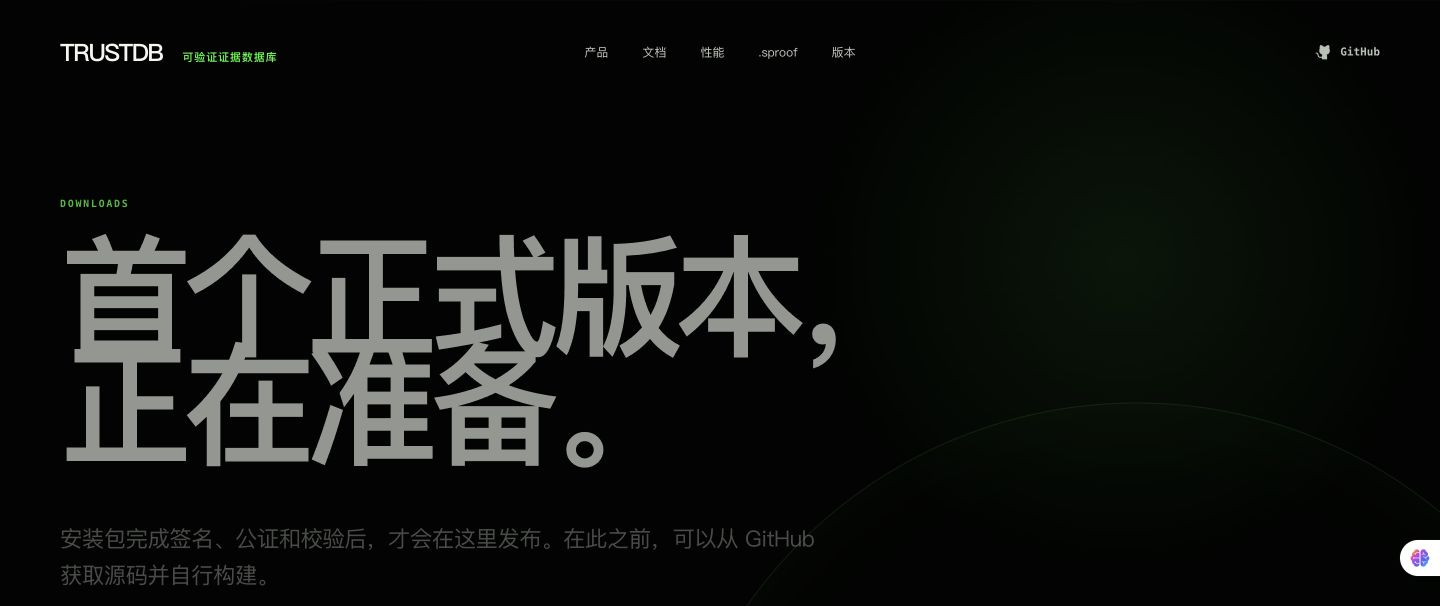
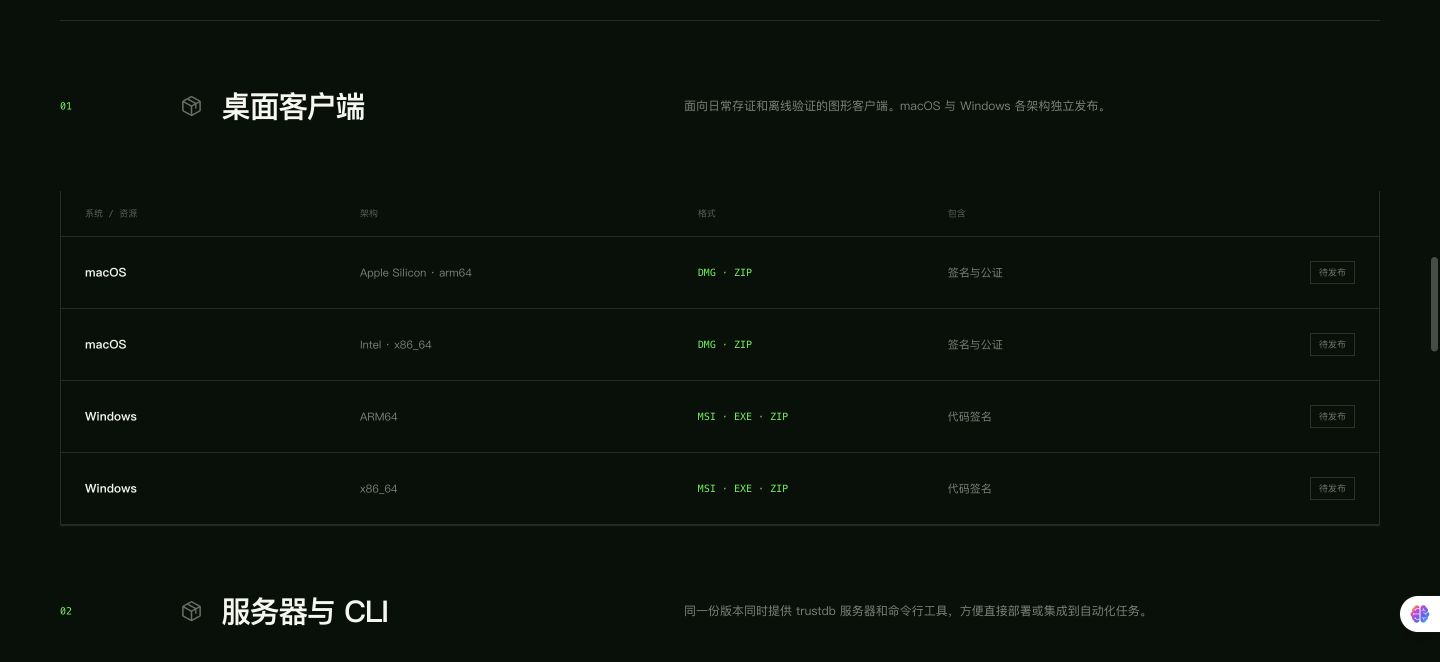
feat(website): expand planned release assets

diff --git a/website/src/pages/ReleasePages.jsx b/website/src/pages/ReleasePages.jsx
@@ -26,11 +26,41 @@ export function ChangelogPage() {
   );
 }
 
-const plannedAssets = [
-  ["macOS", "Apple Silicon / Universal", "DMG · ZIP", "签名与 notarization 待首个 Release"],
-  ["Windows", "x86_64", "MSI / EXE", "签名安装包尚未发布"],
-  ["Linux", "x86_64 / arm64", "AppImage / archive", "桌面包与 CLI archive 尚未发布"],
-  ["CLI & checksums", "multi-platform", "tar.gz · SHA-256", "版本化二进制与校验清单尚未发布"],
+const releaseGroups = [
+  {
+    index: "01",
+    title: "桌面客户端",
+    description: "面向日常存证和离线验证的图形客户端。macOS 与 Windows 各架构独立发布。",
+    assets: [
+      ["macOS", "Apple Silicon · arm64", "DMG · ZIP", "签名与公证"],
+      ["macOS", "Intel · x86_64", "DMG · ZIP", "签名与公证"],
+      ["Windows", "ARM64", "MSI · EXE · ZIP", "代码签名"],
+      ["Windows", "x86-64 · amd64", "MSI · EXE · ZIP", "代码签名"],
+    ],
+  },
+  {
+    index: "02",
+    title: "服务器与 CLI",
+    description: "同一份版本同时提供 trustdb 服务器和命令行工具，方便直接部署或集成到自动化任务。",
+    assets: [
+      ["Linux", "amd64", "tar.gz", "Server · CLI"],
+      ["Linux", "arm64", "tar.gz", "Server · CLI"],
+      ["macOS", "Apple Silicon · arm64", "tar.gz", "Server · CLI"],
+      ["macOS", "Intel · x86_64", "tar.gz", "Server · CLI"],
+      ["Windows", "ARM64", "ZIP", "Server · CLI"],
+      ["Windows", "x86-64 · amd64", "ZIP", "Server · CLI"],
+    ],
+  },
+  {
+    index: "03",
+    title: "容器与发布资料",
+    description: "镜像、部署示例和校验资料随正式版本一起发布。",
+    assets: [
+      ["Docker / OCI", "linux/amd64 · linux/arm64", "GHCR image", "版本标签 · latest"],
+      ["Docker Compose", "multi-arch", "compose.yaml", "服务 · 数据卷 · 健康检查"],
+      ["校验与溯源", "全部平台", "SHA-256 · SBOM", "签名 · 构建来源"],
+    ],
+  },
 ];
 
 export function DownloadsPage() {
@@ -46,8 +76,18 @@ export function DownloadsPage() {
       </section>
       <section className="asset-plan">
         <div className="section-shell">
-          <div className="asset-plan__heading" data-reveal><p>Planned release assets</p><h2>发布后，这里会有什么。</h2></div>
-          <div className="asset-grid">{plannedAssets.map(([platform, arch, format, status]) => <article key={platform} data-reveal><Package /><span>PLANNED</span><h3>{platform}</h3><strong>{arch}</strong><code>{format}</code><p>{status}</p></article>)}</div>
+          <div className="asset-plan__heading" data-reveal><p>Planned release assets</p><h2>客户端、服务端，<br />以及完整发布资料。</h2></div>
+          <div className="release-groups">
+            {releaseGroups.map((group) => (
+              <section className="release-group" key={group.title} data-reveal>
+                <header><span>{group.index}</span><div><Package /><h3>{group.title}</h3></div><p>{group.description}</p></header>
+                <div className="asset-matrix">
+                  <div className="asset-matrix__head"><span>系统 / 资源</span><span>架构</span><span>格式</span><span>包含</span></div>
+                  {group.assets.map(([platform, arch, format, included]) => <div className="asset-matrix__row" key={`${platform}-${arch}`}><strong>{platform}</strong><span>{arch}</span><code>{format}</code><p>{included}</p><b>待发布</b></div>)}
+                </div>
+              </section>
+            ))}
+          </div>
         </div>
       </section>
       <section className="source-build section-shell">

diff --git a/website/src/styles.css b/website/src/styles.css
@@ -402,6 +402,23 @@ button { font: inherit; }
 .asset-plan { padding: 140px 0; background: #071008; }
 .asset-plan__heading { display: grid; grid-template-columns: 1fr 2fr; }
 .asset-plan__heading h2 { margin: 0; font-size: clamp(54px, 5.8vw, 84px); line-height: .94; letter-spacing: -.06em; }
+.release-groups { margin-top: 100px; }
+.release-group { border-top: 1px solid var(--line); }
+.release-group > header { min-height: 170px; display: grid; grid-template-columns: 80px .8fr 1.2fr; align-items: center; gap: 40px; }
+.release-group > header > span { color: var(--acid); font: 10px/1 monospace; }
+.release-group > header > div { display: flex; align-items: center; gap: 18px; }
+.release-group > header svg { width: 23px; height: 23px; color: #657064; }
+.release-group > header h3 { margin: 0; font-size: 30px; letter-spacing: -.045em; }
+.release-group > header p { max-width: 560px; margin: 0; color: #7a8478; font-size: 12px; line-height: 1.8; }
+.asset-matrix { border-left: 1px solid var(--line); }
+.asset-matrix__head, .asset-matrix__row { display: grid; grid-template-columns: 1fr 1.25fr .9fr 1.2fr 82px; align-items: center; gap: 24px; padding: 0 24px; border-right: 1px solid var(--line); border-bottom: 1px solid var(--line); }
+.asset-matrix__head { min-height: 46px; color: #586257; font: 9px/1 monospace; text-transform: uppercase; }
+.asset-matrix__row { min-height: 72px; }
+.asset-matrix__row strong { font-size: 12px; }
+.asset-matrix__row > span, .asset-matrix__row p { color: #798378; font-size: 11px; }
+.asset-matrix__row code { color: var(--acid); font: 10px/1.4 monospace; }
+.asset-matrix__row p { margin: 0; }
+.asset-matrix__row b { justify-self: end; padding: 6px 8px; border: 1px solid rgba(126, 143, 122, .28); color: #6d786b; font: 9px/1 monospace; }
 .asset-grid { display: grid; grid-template-columns: repeat(4, 1fr); margin-top: 100px; border-top: 1px solid var(--line); border-left: 1px solid var(--line); }
 .asset-grid article { min-height: 340px; padding: 28px; border-right: 1px solid var(--line); border-bottom: 1px solid var(--line); }
 .asset-grid article > svg { width: 24px; height: 24px; color: #637062; }
@@ -553,6 +570,15 @@ button { font: inherit; }
   .asset-grid { grid-template-columns: 1fr; margin-top: 60px; }
   .asset-grid article { min-height: 280px; }
   .asset-grid h3 { margin-top: 75px; }
+  .release-groups { margin-top: 60px; }
+  .release-group > header { grid-template-columns: 42px 1fr; gap: 24px; padding: 32px 0; }
+  .release-group > header p { grid-column: 2; }
+  .asset-matrix__head { display: none; }
+  .asset-matrix__row { min-height: 130px; grid-template-columns: 1fr auto; gap: 12px 20px; padding: 22px; }
+  .asset-matrix__row > span { grid-column: 1; }
+  .asset-matrix__row code { grid-column: 2; grid-row: 2; }
+  .asset-matrix__row p { grid-column: 1 / -1; }
+  .asset-matrix__row b { grid-column: 2; grid-row: 1; }
   .source-build__steps { grid-template-columns: 1fr; margin-top: 60px; }
   .source-build__steps p { min-height: 150px; }
 }